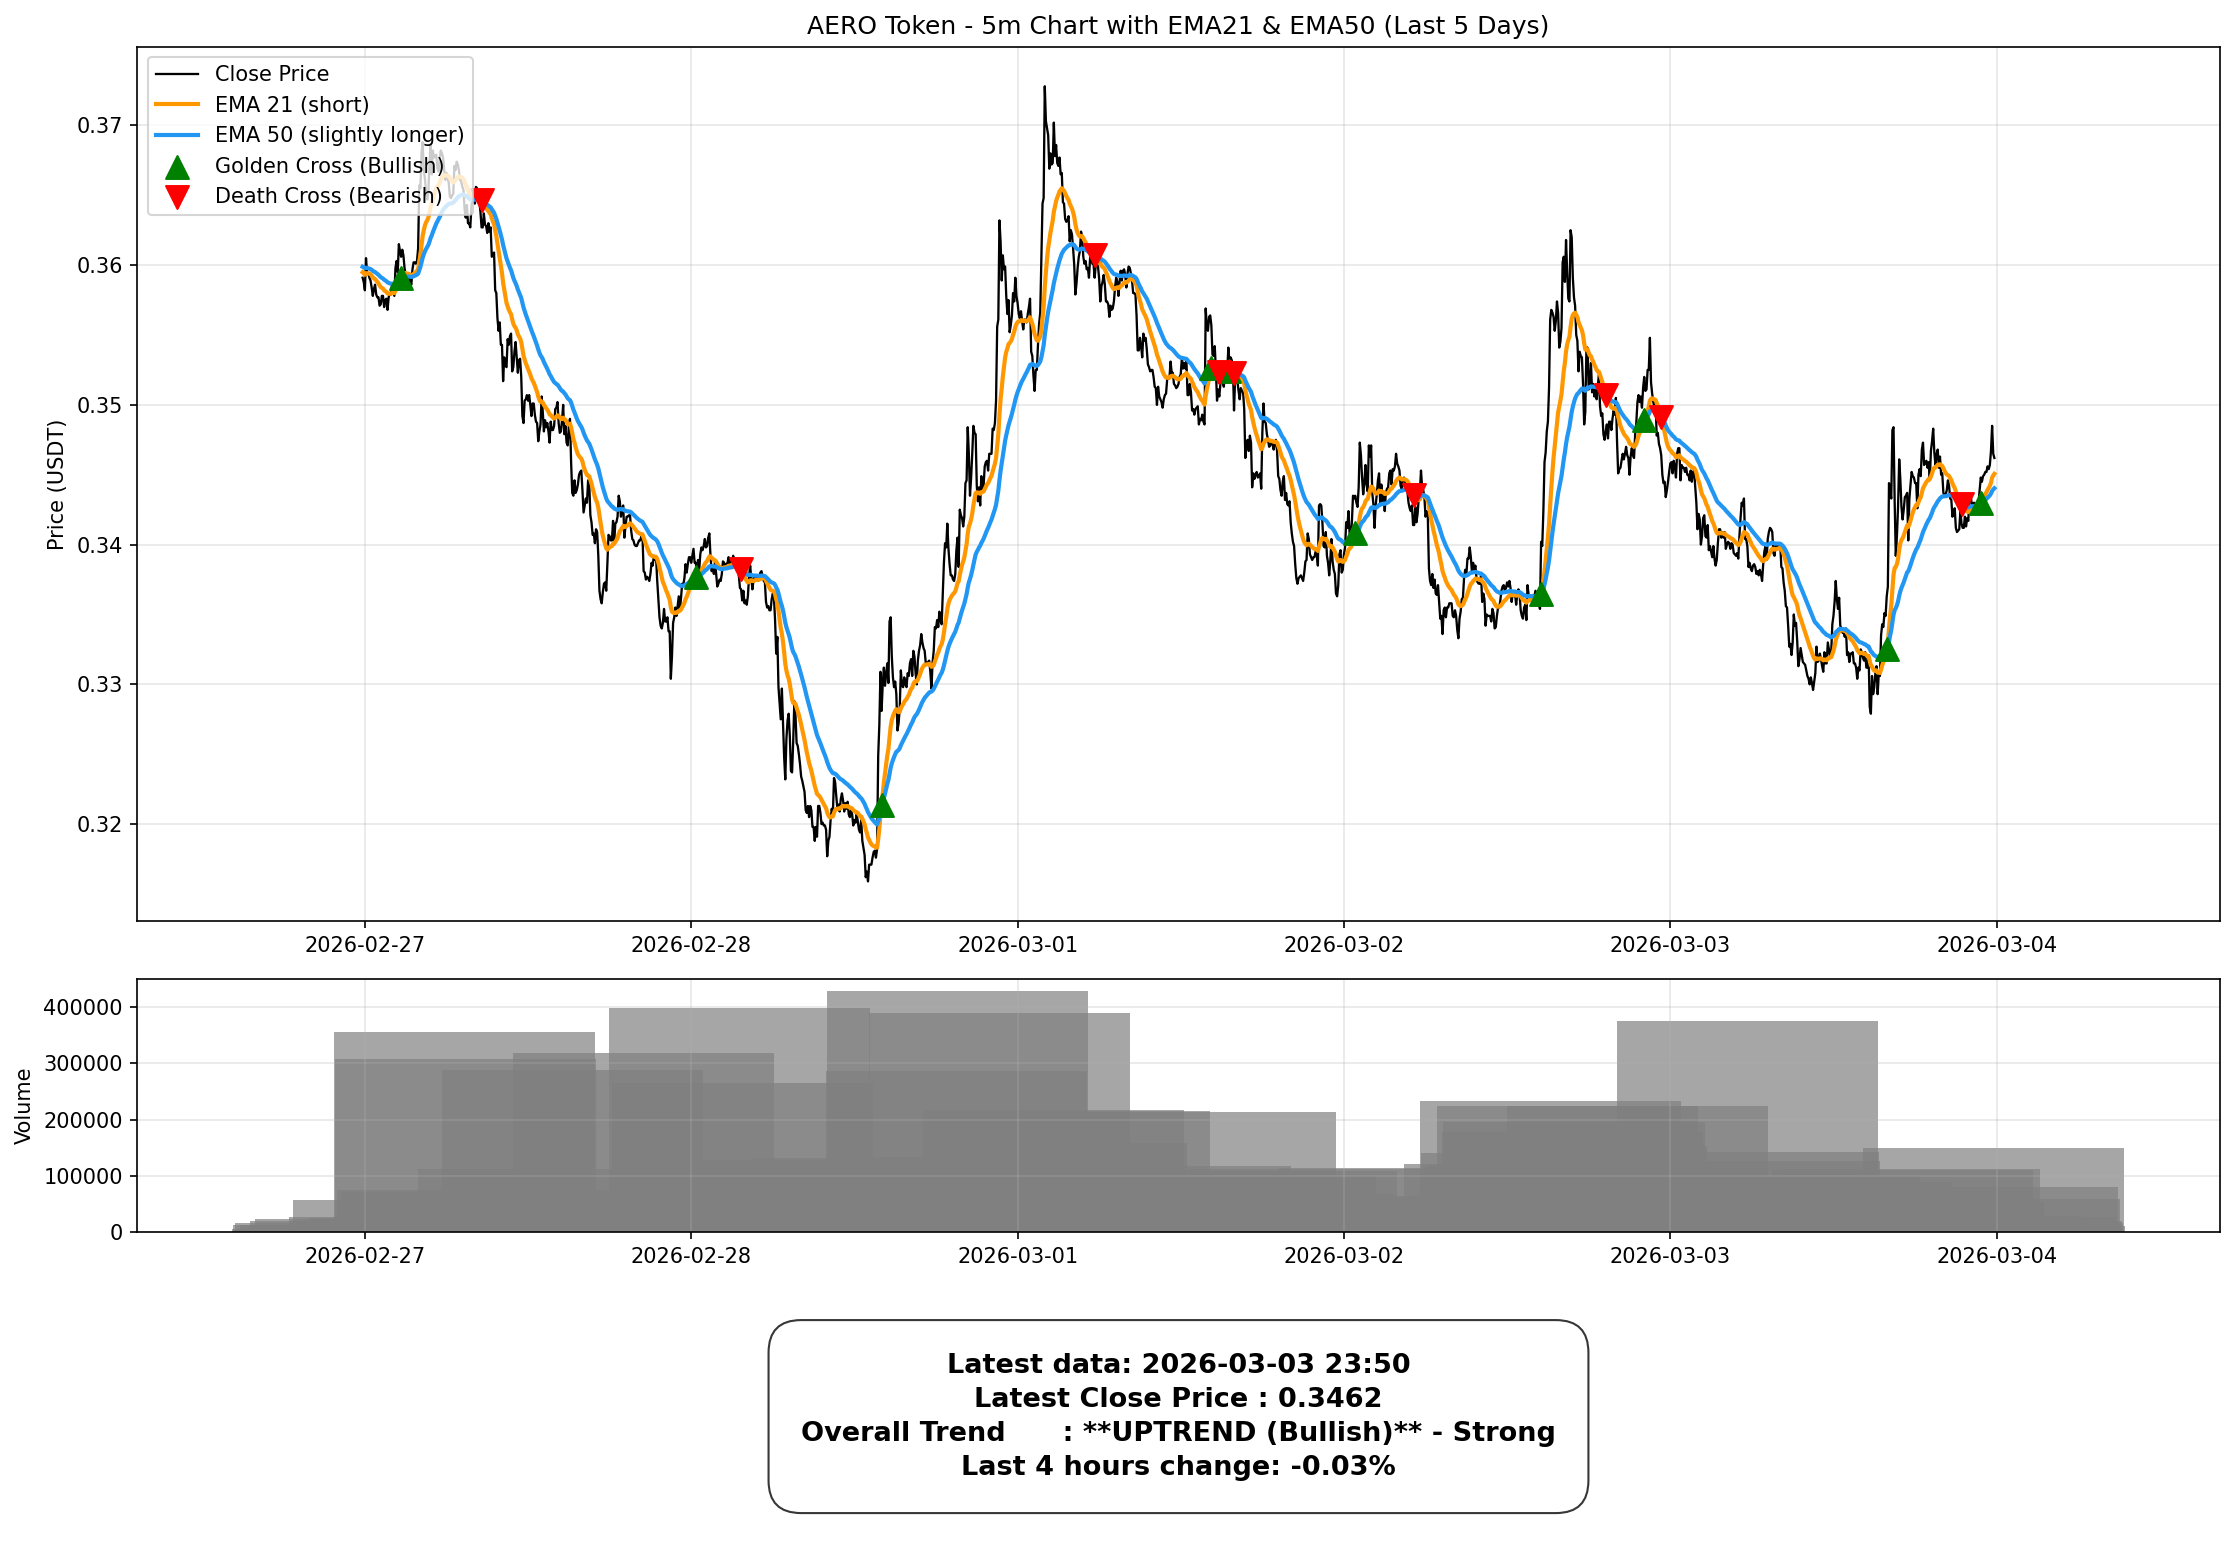
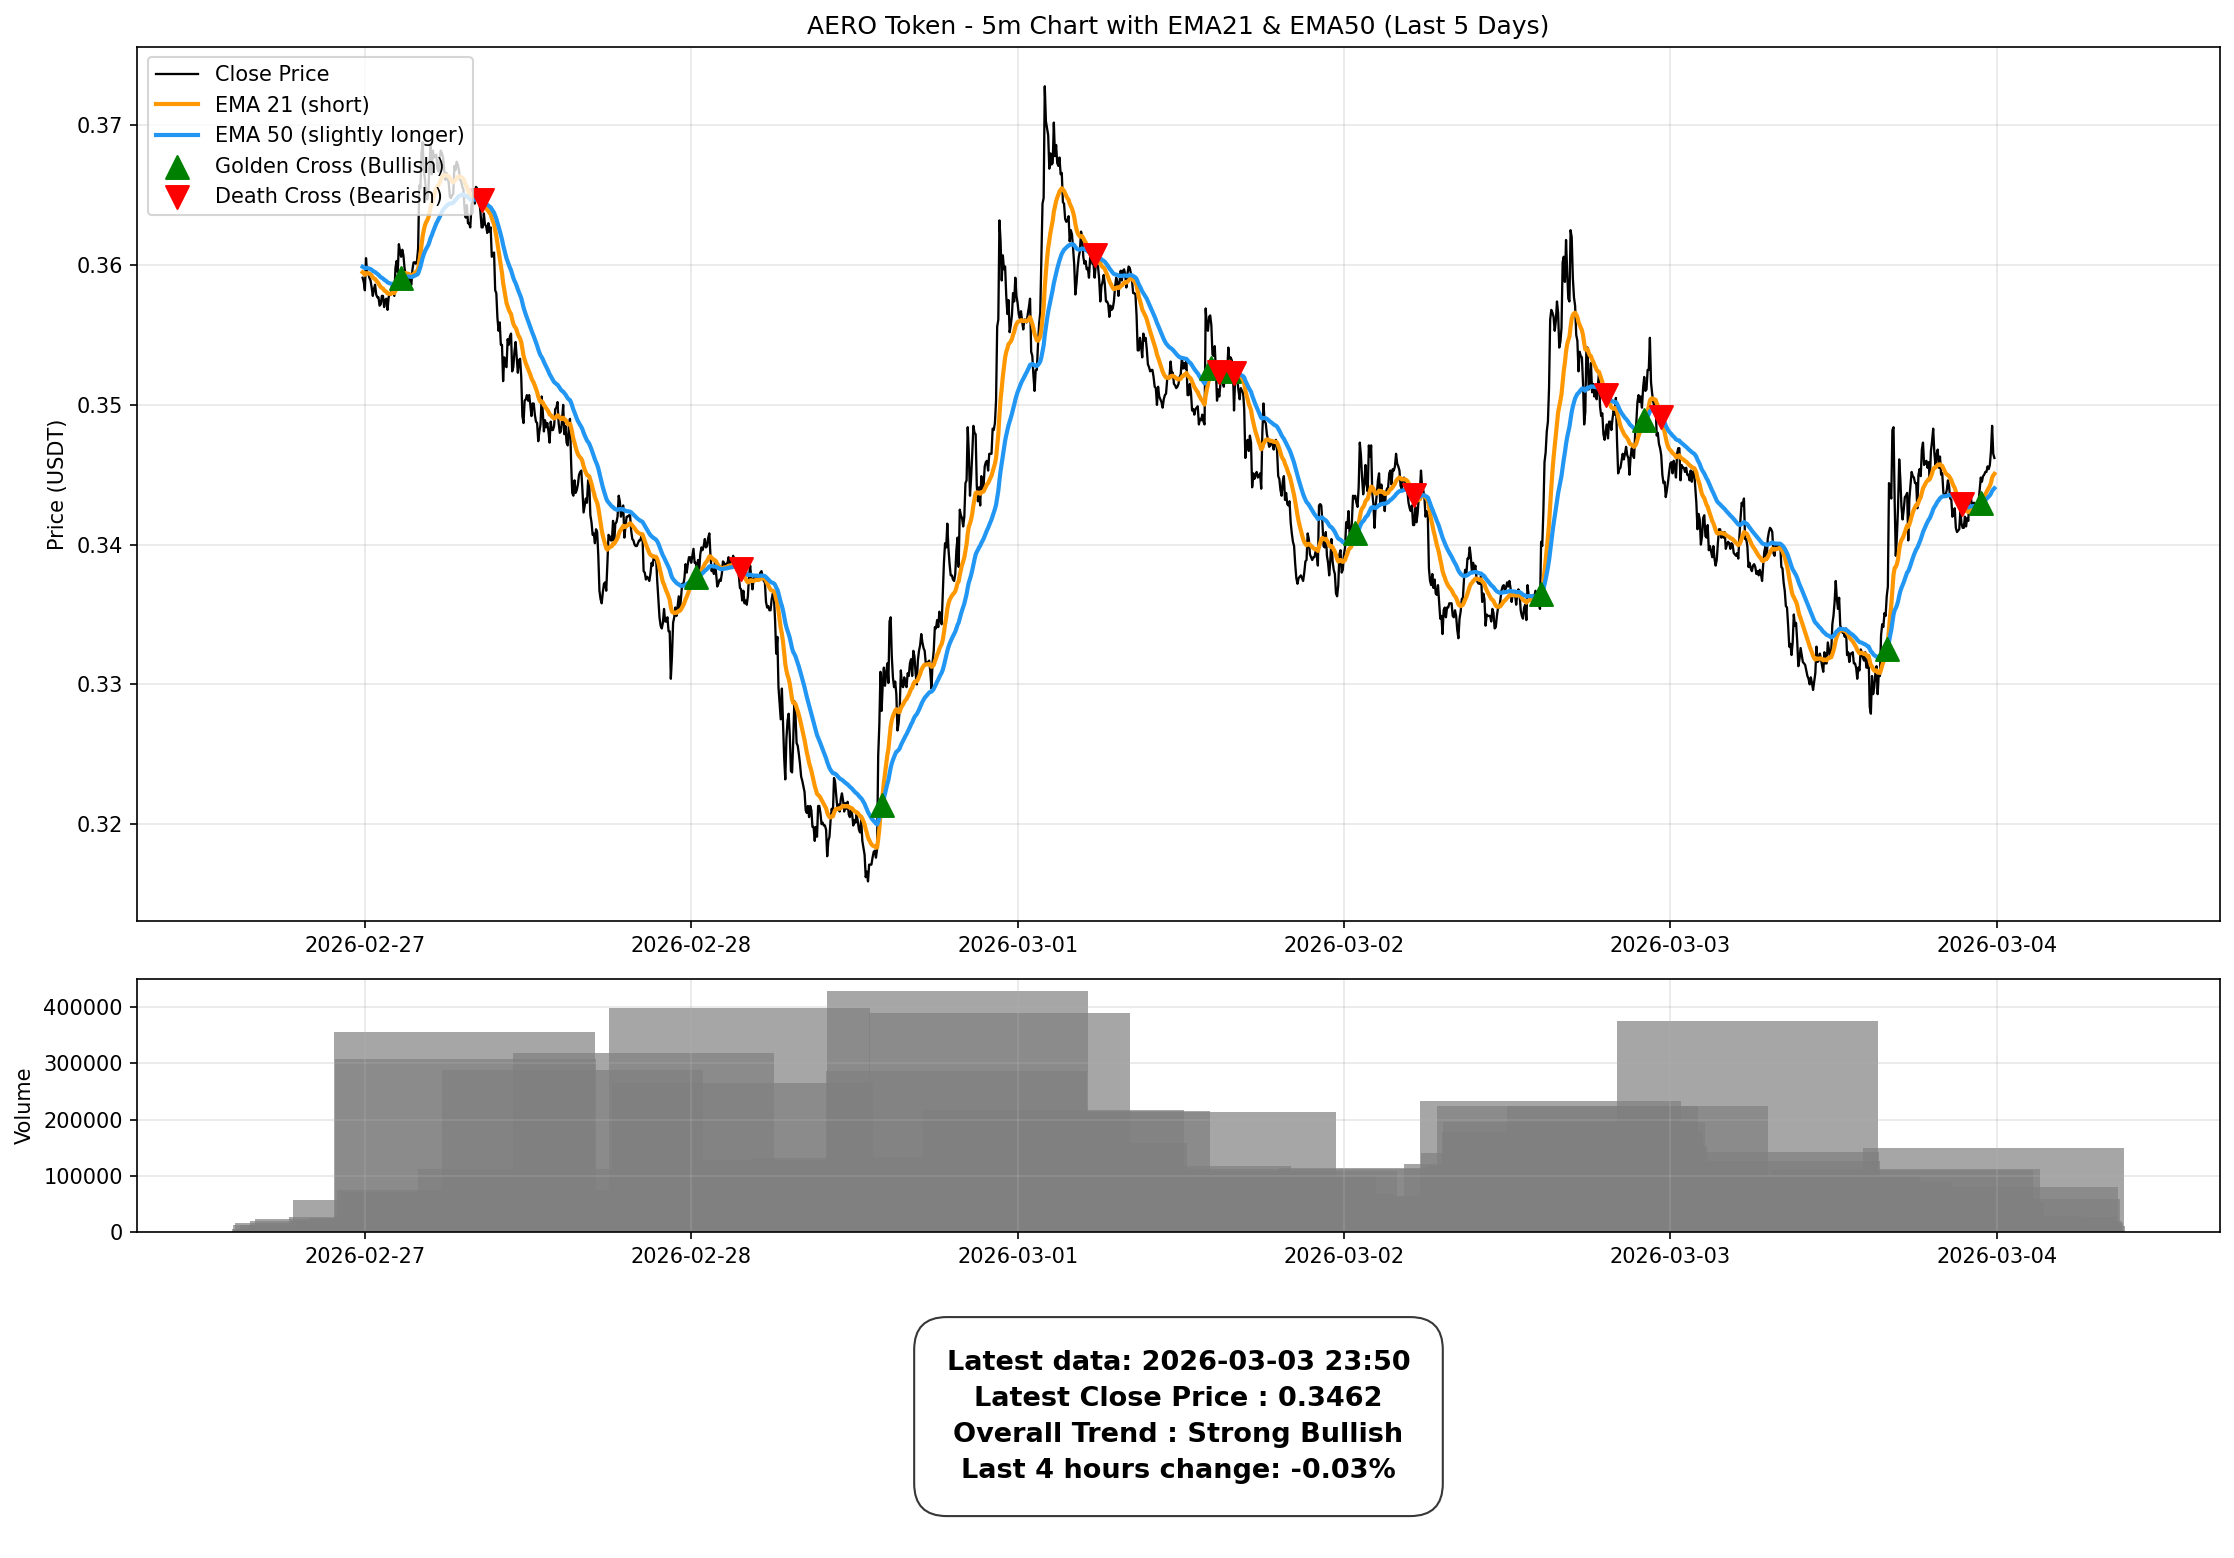
save

Changed region(s): [[0.3397, 0.8318, 0.7104, 0.9859]]

diff --git a/src/aerotoken_stats/draw_chart.py b/src/aerotoken_stats/draw_chart.py
@@ -26,7 +26,7 @@ class AeroChart:
         self.df['Position'] = self.df['Signal'].diff()
 
     def plot_and_save(self, days: int = 5):
-        """Generate chart + dedicated bottom panel for trend results (no overlap)."""
+        """Generate chart + dedicated bottom panel (DPI=150)."""
         last_date = self.df.index.max()
         self.plot_df = self.df[self.df.index >= last_date - pd.Timedelta(days=days)]
 
@@ -57,35 +57,42 @@ class AeroChart:
         ax2.set_ylabel('Volume')
         ax2.grid(True, alpha=0.3)
 
-        # ====================== DEDICATED BOTTOM PANEL FOR RESULTS ======================
+        # ====================== DEDICATED BOTTOM PANEL ======================
         ax3 = plt.subplot2grid((5, 1), (4, 0))
         ax3.axis('off')
 
         latest = self.df.iloc[-1]
         latest_time = self.df.index[-1].strftime('%Y-%m-%d %H:%M')
         is_bullish = latest['EMA21'] > latest['EMA50']
-        trend_text = "UPTREND (Bullish)" if is_bullish else "DOWNTREND (Bearish)"
-        strength = "Strong" if (is_bullish and latest['close'] > latest['EMA21']) or \
-                          (not is_bullish and latest['close'] < latest['EMA21']) else "Moderate"
+
+        # 4 clear states (no ** markdown)
+        if is_bullish:
+            direction = "Bullish"
+            strength = "Strong" if latest['close'] > latest['EMA21'] else "Weak"
+        else:
+            direction = "Bearish"
+            strength = "Strong" if latest['close'] < latest['EMA21'] else "Weak"
+
+        full_trend = f"{strength} {direction}"
 
         text = f"Latest data: {latest_time}\n" \
                f"Latest Close Price : {latest['close']:.4f}\n" \
-               f"Overall Trend      : **{trend_text}** - {strength}"
+               f"Overall Trend : {full_trend}\n"
 
         if len(self.df) > 48:
             change_4h = (latest['close'] - self.df.iloc[-49]['close']) / self.df.iloc[-49]['close'] * 100
-            text += f"\nLast 4 hours change: {change_4h:+.2f}%"
+            text += f"Last 4 hours change: {change_4h:+.2f}%"
 
         ax3.text(0.5, 0.5, text, ha='center', va='center', fontsize=13, fontweight='bold',
-                 linespacing=1.4,
+                 linespacing=1.5,
                  bbox=dict(boxstyle="round,pad=1.2", facecolor="white", alpha=0.98, edgecolor="#333333"))
 
         plt.tight_layout()
 
-        # ====================== SAVE WITH DPI=150 ======================
+        # ====================== SAVE ======================
         filename = f"AERO_{days}day_EMA_chart.png"
         plt.savefig(filename, dpi=150, bbox_inches='tight')
-        print(f"✅ Chart saved as: {filename}  (DPI=150 + dedicated bottom trend panel)")
+        print(f"✅ Chart saved as: {filename}")
 
         plt.close()
 
@@ -99,14 +106,15 @@ class AeroChart:
         print(f"EMA21              : {latest['EMA21']:.4f}")
         print(f"EMA50              : {latest['EMA50']:.4f}")
 
-        if latest['EMA21'] > latest['EMA50']:
-            trend = "UPTREND (Bullish)"
-            strength = "Strong" if latest['close'] > latest['EMA21'] else "Moderate"
+        is_bullish = latest['EMA21'] > latest['EMA50']
+        if is_bullish:
+            direction = "Bullish"
+            strength = "Strong" if latest['close'] > latest['EMA21'] else "Weak"
         else:
-            trend = "DOWNTREND (Bearish)"
-            strength = "Strong" if latest['close'] < latest['EMA21'] else "Moderate"
+            direction = "Bearish"
+            strength = "Strong" if latest['close'] < latest['EMA21'] else "Weak"
 
-        print(f"Overall Trend      : **{trend}** - {strength}")
+        print(f"Overall Trend      : {strength} {direction}")
 
         if len(self.df) > 48:
             change_4h = (latest['close'] - self.df.iloc[-49]['close']) / self.df.iloc[-49]['close'] * 100
